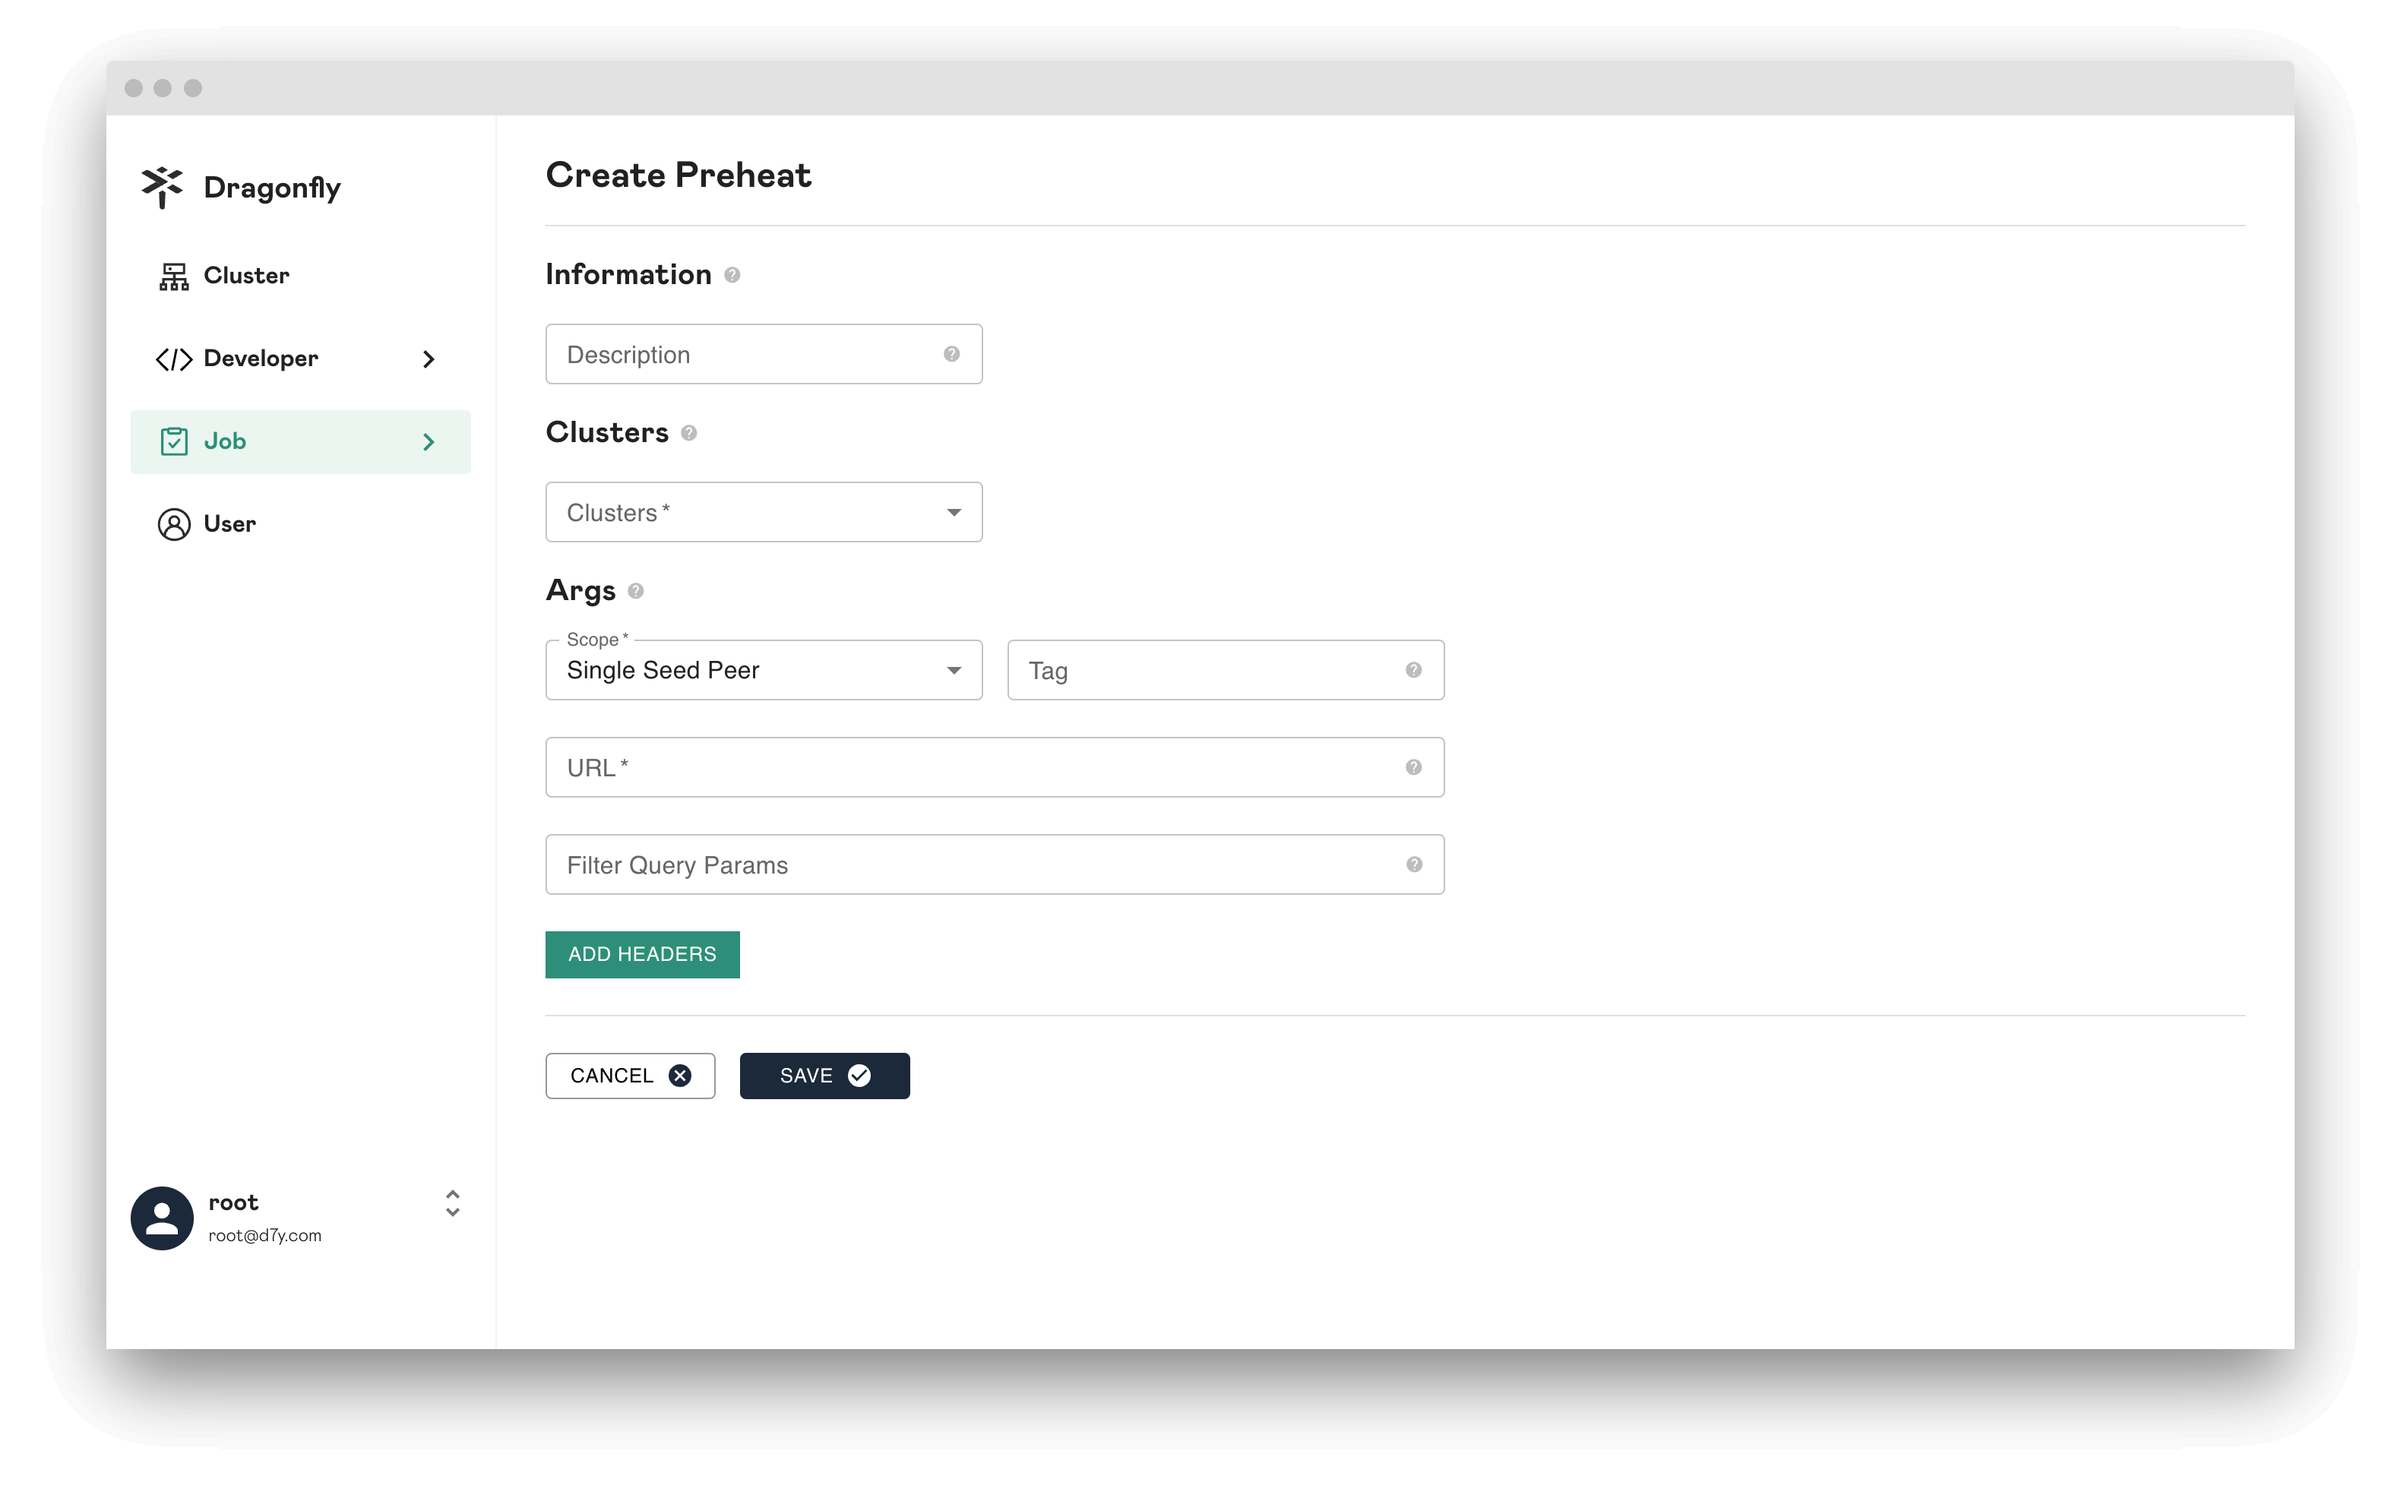
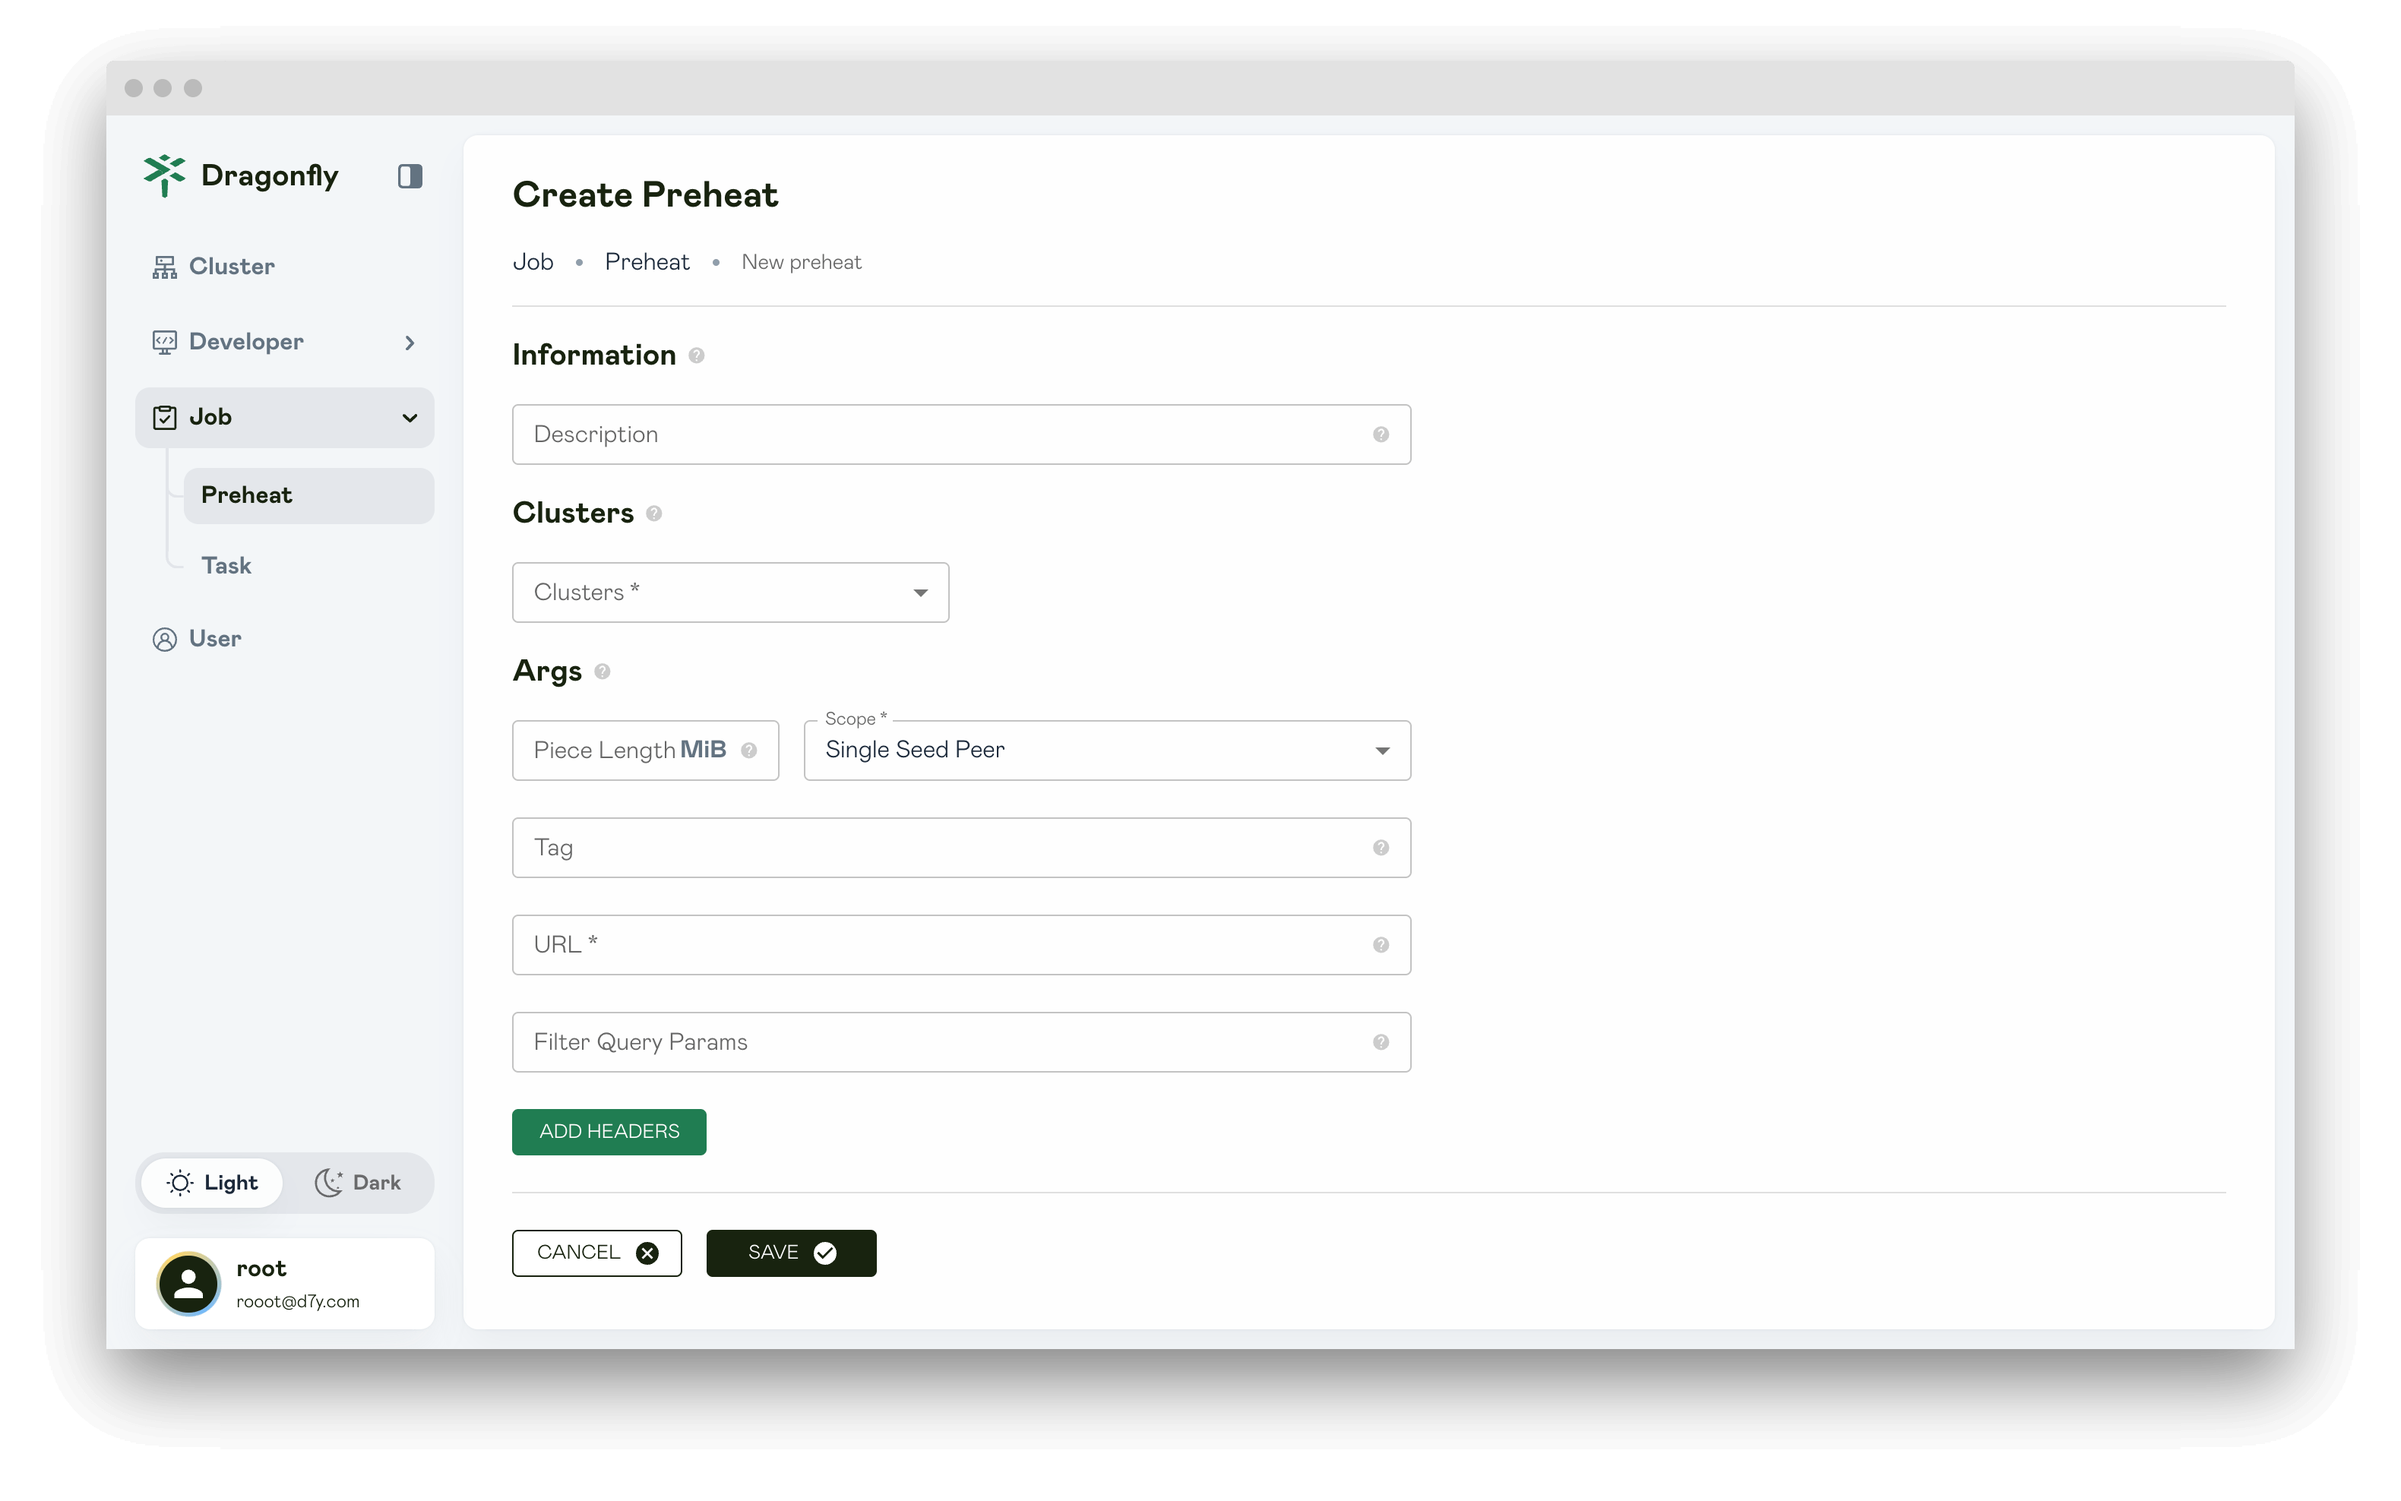
Docs: preheat adds the piece length parameter and updates the image (#245)
* docs: preheat adds the Piece Length parameter and updates the image

* docs: preheat adds the Piece Length parameter and updates the image

---------

diff --git a/docs/advanced-guides/preheat.md b/docs/advanced-guides/preheat.md
@@ -23,11 +23,11 @@ Click the `ADD PERSONAL ACCESS TOKENS` button to create personal access token.
 
 **Scopes**: Select the access permissions for the token.
 
-![create-token](../resource/advanced-guides/personal-access-tokens/create-token.png)
+![create-token](../resource/advanced-guides/preheat/create-token.png)
 
 Click `SAVE` and copy the token and store it. For your security, it doesn't display again.
 
-![copy-token](../resource/advanced-guides/personal-access-tokens/copy-token.png)
+![copy-token](../resource/advanced-guides/preheat/copy-token.png)
 
 ### Preheat image
 
@@ -241,9 +241,10 @@ Click the `ADD PREHEAT` button to create preheat task.
 
 **Clusters**: Used for clusters that need to be preheat.
 
-**URL**: URL address used to specify the resource to be preheat.
+**Piece Length**: By setting the piece length, you can define the size of each piece downloaded during preheating.
+If unspecified, it’s calculated based on content length, defaulting to 4-16 MiB.
 
-**Scope:** Select the scope of preheat as needed.
+**URL**: URL address used to specify the resource to be preheat.
 
 - **Single Seed Peer**: Preheat to a seed peer.
 
@@ -253,6 +254,8 @@ Click the `ADD PREHEAT` button to create preheat task.
 
 **Tag**: When the URL of the preheat task are the same but the Tag are different, they will be distinguished based on the
 tag and the generated preheat task will be different.
+
+**Scope:** Select the scope of preheat as needed.
 
 **Filtered Query Params**: By setting the filteredQueryParams parameter, you can specify
 the file type of the resource that needs to be preheated.
@@ -334,7 +337,7 @@ Click the `ADD PERSONAL ACCESS TOKENS` button to create personal access token.
 
 Click `SAVE` and copy the token and store it. For your security, it doesn't display again.
 
-![copy-token](../resource/advanced-guides/personal-access-tokens/copy-token.png)
+![copy-token](../resource/advanced-guides/preheat/copy-token.png)
 
 ### Create instance
 
